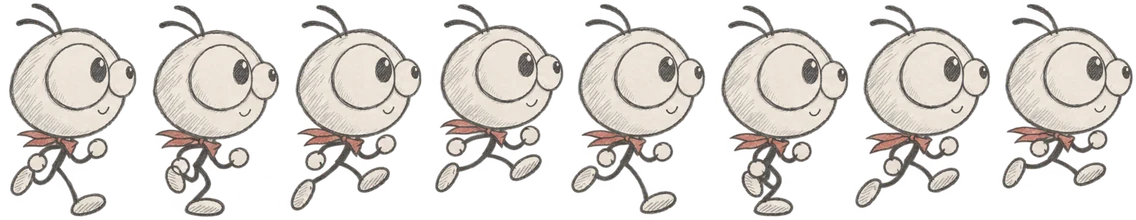
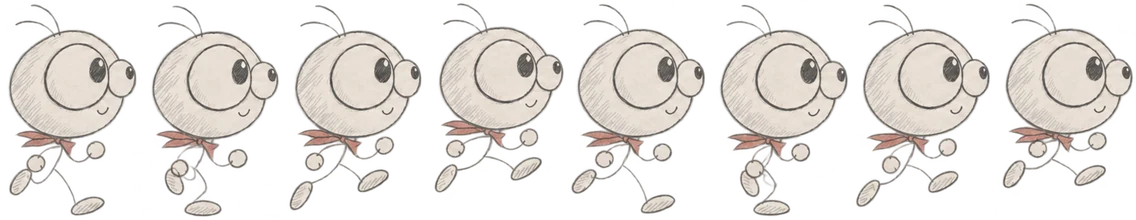
Version 1.0.4: squat-walk crouch, balance scale fix

diff --git a/src/pages/wiki/moves.md b/src/pages/wiki/moves.md
@@ -17,15 +17,15 @@ Noggin's body took about three seconds to draw, but it does a surprising amount.
   single wall by kicking off it over and over: you need two walls, or a ledge.
 - **Ledge grab.** Jump at the edge of a platform and Noggin hangs on. Press up to climb, down to let go.
 - **Slide.** Press down while running to slide under low gaps (and high saw blades).
-- **Crouch and crawl.** Hold down while standing to crouch, then move to crawl along on all fours. It's slow, but
-  you can stop and turn round whenever you like. Slide or roll into a gap too low to stand in and Noggin stays down
-  and crawls until there's room overhead. You can't jump until you can stand up.
+- **Crouch and squat-walk.** Hold down while standing to crouch, then move to shuffle along in a deep squat. It's a
+  bit slower than walking, and you can stop and turn round whenever you like. Slide or roll into a gap too low to
+  stand in and Noggin stays down and squat-walks until there's room overhead. You can't jump until you can stand up.
 
 <span class="crawl" aria-hidden="true"></span>
 <style>
-  .crawl { display: block; width: 125px; height: 96px; margin: 0 0 24px; background: url(/art/noggin_crawl.webp) 0 0 / 1000px 96px no-repeat;
+  .crawl { display: block; width: 93px; height: 96px; margin: 0 0 24px; background: url(/art/noggin_crawl.webp) 0 0 / 744px 96px no-repeat;
     animation: crawl .8s steps(8) infinite; }
-  @keyframes crawl { to { background-position: -1000px 0; } }
+  @keyframes crawl { to { background-position: -744px 0; } }
   @media (prefers-reduced-motion: reduce) { .crawl { animation: none; } }
 </style>
 - **Roll.** A quick roll in the direction you're going.

diff --git a/src/pages/wiki/controls.md b/src/pages/wiki/controls.md
@@ -18,7 +18,7 @@ Any Xbox-style controller works; button names below are Xbox ones.
 | Dodge (roll with no direction held) | <kbd>X</kbd> / <kbd>L</kbd> | <kbd>B</kbd> |
 | Dash (1.5 s cooldown) | <kbd>Shift</kbd> / right-click | <kbd>RB</kbd> |
 | Slide | Down while running | D-pad down |
-| Crouch / crawl | Hold down, then move | Hold D-pad down, then move |
+| Crouch / squat-walk | Hold down, then move | Hold D-pad down, then move |
 | Drop through a plank | Down + Jump | Down + <kbd>A</kbd> |
 | Back to the last flag | <kbd>R</kbd> | <kbd>Back</kbd> |
 | Pause | <kbd>Esc</kbd> / <kbd>P</kbd> | <kbd>Start</kbd> |
